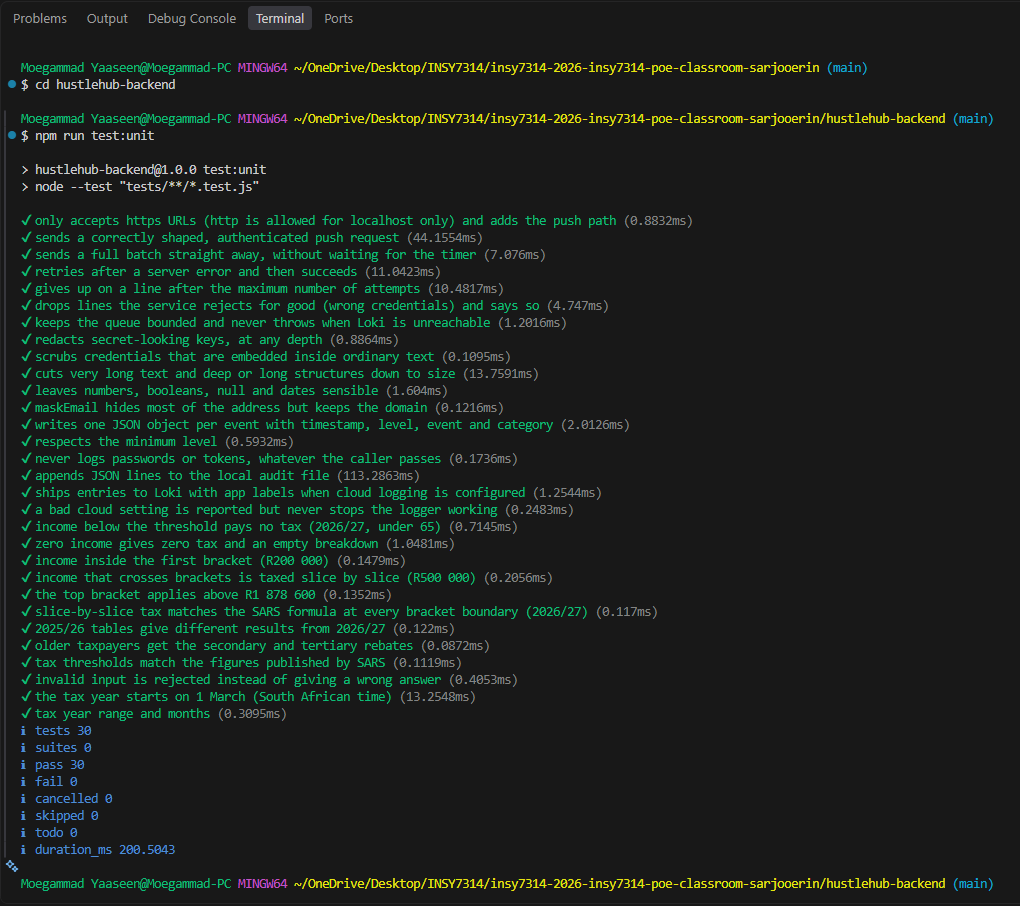
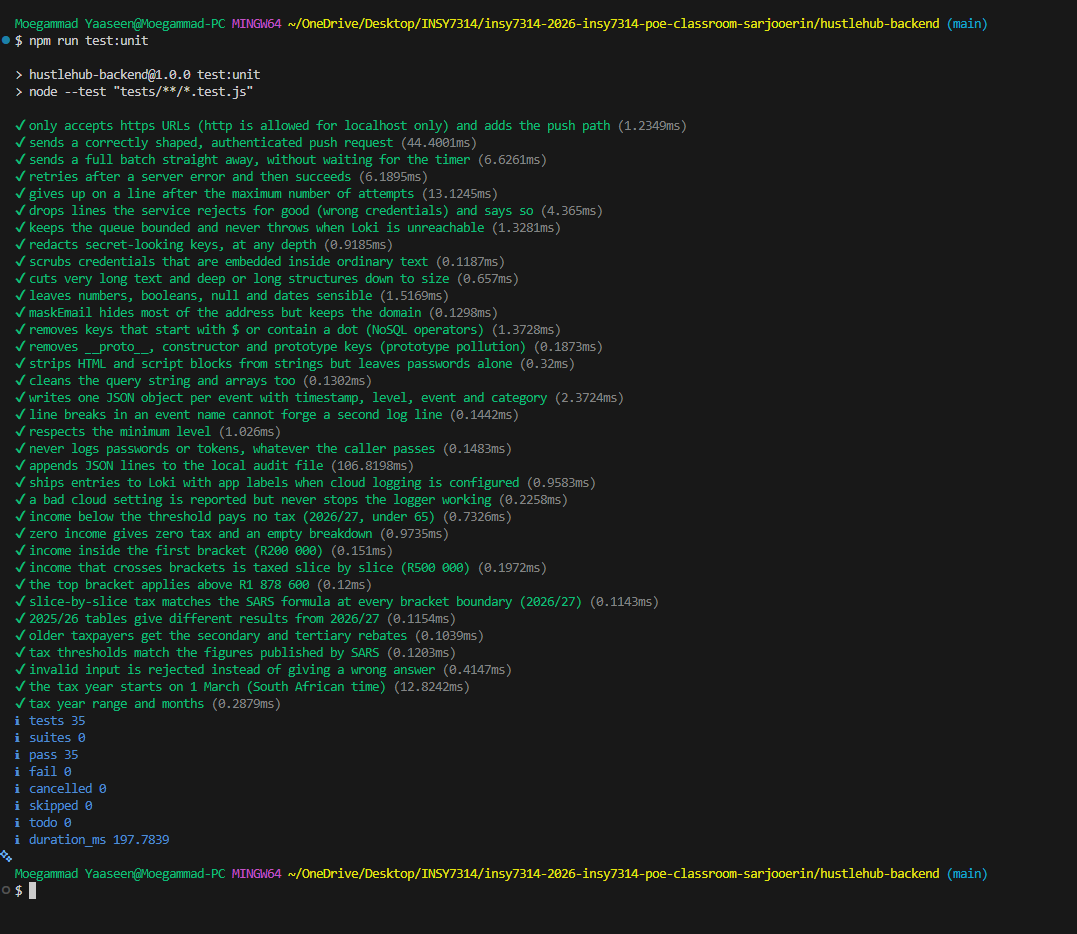
Updated Read Me and Evidence photos

Changed region(s): [[0.0, 0.0, 0.9725, 0.989], [0.5471, 0.3091, 0.5775, 0.34]]

diff --git a/README.md b/README.md
@@ -13,7 +13,7 @@ ST10434391 - Nkosana Mavunhla
 
 **Demonstration video:** PASTE_PART_3_VIDEO_LINK_HERE
 
-**Repository used for the pipeline and static analysis:** PASTE_REPOSITORY_OR_FORK_LINK_HERE (if a fork was used because SonarQube could not connect to the Classroom50 repository, the fork contains every commit of this project)
+**Repository:** https://github.com/EMGPRS/insy7314-2026-insy7314-poe-classroom-sarjooerin (the pipeline runs and the SonarQube analysis are on this repository's `main` branch)
 
 ---
 
@@ -29,7 +29,7 @@ ST10434391 - Nkosana Mavunhla
 | Our own security features (marked **OWN FEATURE**) | [6.2 Our own security features](#62-our-own-security-features-part-3) | `utils/accountLockout.js`, `controllers/authController.js`, `InactivityGuard.jsx` |
 | Security review | [7. Security Review](#7-security-review) | - |
 | Testing evidence | [12. Testing](#12-testing) and [16. Screenshots and Evidence](#16-screenshots-and-evidence) | `hustlehub-backend/tests`, `postman`, `e2e` |
-| References and attribution | [17. Attribution and Use of AI Assistance](#17-attribution-and-use-of-ai-assistance), [18. Reference List](#18-reference-list) | - |
+| Sources and references | [17. Sources and Open-Source Packages](#17-sources-and-open-source-packages), [18. Reference List](#18-reference-list) | - |
 
 ### Team contributions in Part 3
 
@@ -57,7 +57,7 @@ The platform handles credentials, bookings and income data, so security is a des
 | **Freelancer** | Create, edit and delete their own gigs, see booking requests they received, accept or reject them, mark accepted work completed, and see income, estimated tax and take-home pay on a dashboard. |
 | **Admin** | See every user, booking and transaction, and remove any gig for moderation. Admins cannot book gigs or create gigs. |
 
-Admins cannot register through the app. The first admin is created with `npm run seed:admin`.
+Admins cannot register through the app. The first admin is created with `npm run seed:admin` (or `node scripts/seedAdmin.js` inside Docker).
 
 ### How the project grew
 
@@ -465,7 +465,10 @@ Example LogQL queries used for the evidence screenshots:
 sum by (event) (count_over_time({app="hustlehub"} | json [1h]))
 {app="hustlehub", category=~"booking|transaction"}
 {app="hustlehub", level="error"}
+sum by (event) (count_over_time({app="hustlehub"} | json | event!~"http.request|system.*" [1h]))
 ```
+
+The last query is the one in the event-counts screenshot. It leaves out `http.request` and the `system.*` start-up events so that every row fits on the screen.
 
 Evidence screenshots of the dashboard and of these queries are in section 16.
 
@@ -549,6 +552,7 @@ These also go beyond the brief and are marked as our own features:
 
 - **Secret and vulnerability scanning in the pipeline.** Trivy scans the repository for committed secrets, vulnerable dependencies and Dockerfile misconfigurations, and scans both built Docker images, and `npm audit` runs on every package file. Any high or critical finding fails the build. Dependabot opens pull requests for new versions of dependencies, GitHub Actions and Docker base images (`.github/dependabot.yml`).
 - **No secrets in the repository or the images.** `docker-compose.yml` has no secret values: it reads them from `.env` with `${NAME:?message}`, so Compose refuses to start if one is missing. The pipeline creates fresh random secrets for every run. Containers run as an unprivileged user.
+- **Hardened container images.** The API image installs its dependencies, then **removes npm** so the vulnerable packages that npm bundles are not shipped (Trivy reported them against the image), and the application files are owned by root so the running `node` user cannot change them. The web image is built on the current `nginx-unprivileged` release on Alpine, with security upgrades applied. Both images pass the Trivy scan in the pipeline.
 - **Secret-safe logging.** Automatic redaction of secrets and masked email addresses in every log line (section 5.2).
 - **Request tracing.** A request id on every response and log line.
 
@@ -594,7 +598,7 @@ Section 15 lists what is still not covered (for example, a payment gateway, refr
 | Authentication | **JWT bearer tokens** | **Server-side sessions** store a session record for every login and must look it up on every request. That needs a shared session store once there is more than one server, and cookie sessions need extra CSRF protection. JWTs are checked with the secret alone, work the same for the React app and Postman, and scale without shared state. The cost is that a token cannot normally be cancelled before it expires, so we keep it short (1 hour), reload the user on every request (deleted accounts and changed roles take effect straight away) and added a **token version** that a logout raises, which cancels every older token (section 6.2). |
 | Password hashing | **bcrypt, 12 rounds** | **SHA-256 or MD5** are fast, which helps attackers. **argon2id** is also excellent, but needs a native build that often fails on student Windows machines. bcrypt is slow on purpose, salts every password, and its cost can be raised over time. We use `bcryptjs` (pure JavaScript, no native build). |
 | Token storage in the browser | **sessionStorage** | **localStorage** keeps the token after the browser closes. **httpOnly cookies** cannot be read by scripts, but they are sent automatically, which brings CSRF risk, and they behave awkwardly across the two local servers. With sessionStorage the token disappears when the tab closes, the browser never attaches it automatically (so CSRF does not apply), and a strict CSP plus React's escaping reduce the XSS risk. |
-| Database | **MongoDB Atlas with Mongoose** | A relational database would also work. MongoDB is the "M" in MERN, stores gigs naturally as documents, and Mongoose schemas give a second layer of validation. |
+| Database | **MongoDB with Mongoose** (Atlas for local development, a `mongo:7` container in Docker Compose) | A relational database would also work. MongoDB is the "M" in MERN, stores gigs naturally as documents, and Mongoose schemas give a second layer of validation. |
 | Validation | **express-validator** | **Joi or Zod** are good schema libraries, but express-validator is built for Express, and does validation and sanitising in one chain per field. |
 | NoSQL injection | **Remove `$` keys, require strings, Mongoose `sanitizeFilter`** | Relying on only one layer. Three independent layers mean one mistake does not become a breach. |
 | Rate limit storage | **In memory** | **Redis** is needed when several servers share limits. This project runs one API container, so in-memory is simpler and has no extra service to run. Lockout counters, which must survive a restart, are stored in MongoDB instead. |
@@ -611,6 +615,8 @@ Section 15 lists what is still not covered (for example, a payment gateway, refr
 | Web container | **nginx serving a build, as an unprivileged user** | Running the Vite preview server in production is not intended. nginx is small, fast, can be run without root and sets the same security headers. |
 | Browser tests | **Playwright** | It drives a real browser, waits for the page automatically, and runs the same way locally and in the pipeline. |
 | Static analysis | **ESLint with security rules plus SonarQube** | ESLint gives fast feedback on every file in seconds and runs locally. SonarQube adds quality gates, coverage and history. Together they catch more than either alone. |
+| SonarQube hosting | **SonarQube Cloud (hosted)** | Running our own SonarQube server needs a machine that is always on and kept patched. The hosted service needs only a token and works straight from GitHub Actions. |
+| Container images | **`node:22-alpine` with npm removed after install, and the current `nginx-unprivileged`** | A full `node` image or a build that keeps npm ships far more packages than the app needs, and Trivy reported vulnerabilities inside npm itself. Small, current images with fewer packages leave less to attack and keep the image scan clean. |
 
 ---
 
@@ -812,8 +818,8 @@ cp .env.docker.example .env
 # 2. Build the images and start everything, waiting until all three are healthy
 docker compose up --build -d --wait
 
-# 3. Create the admin account
-docker compose run --rm api npm run seed:admin
+# 3. Create the admin account (the API image has no npm, so the script is run with node)
+docker compose run --rm api node scripts/seedAdmin.js
 
 # 4. Open https://localhost:8443  (accept the self-signed certificate warning)
 docker compose ps          # shows all three containers as healthy
@@ -874,7 +880,7 @@ Every layer of the application has automated tests, and all of them run in the p
 
 | Layer | Tool | What it covers | Latest result |
 |---|---|---|---|
-| Backend unit tests | Node's built-in test runner (`node:test`) | Tax engine (12), log redaction (5), Loki sender (7), structured logger (6) | **30 tests, 0 failed**. Together with the Newman API tests below, the backend has about 96% line coverage |
+| Backend unit tests | Node's built-in test runner (`node:test`) | Tax engine (12), log redaction (5), Loki sender (7), structured logger (7), input sanitiser (4) | **35 tests, 0 failed**. Together with the Newman API tests below, the backend has about 96% line coverage |
 | Backend integration tests | Postman collection run by Newman | Every endpoint, roles, ownership, validation, injection, tokens, rate limits, lockout, sessions, headers, CORS | **165 requests, 416 assertions, 0 failed** |
 | Frontend unit and integration tests | Vitest and Testing Library | Pages, forms, routing by role, API client, charts, income page, sessions, inactivity sign-out | **85 tests in 15 files, 0 failed** (about 81% line coverage across all source files) |
 | End-to-end browser tests | Playwright (Chromium) against the Docker stack | Register, log in, create a gig, book, accept, complete, income and tax page, role access, logout revocation, account lockout, admin | **9 tests, 0 failed** |
@@ -927,7 +933,7 @@ npm run lint
 
 ```bash
 docker compose up --build -d --wait
-docker compose run --rm api npm run seed:admin
+docker compose run --rm api node scripts/seedAdmin.js
 cd e2e
 npm install
 npx playwright install chromium
@@ -1005,19 +1011,32 @@ The first run found issues, and each one was reviewed by hand instead of being s
 | **3 errors in the web app** (React Hooks rules) | The inactivity timer called `Date.now()` while rendering, which was moved into an effect, and a data hook that resets its loading flag is documented as the standard fetch-on-change pattern. An unused variable rule was adjusted for JSX component names. |
 | **Dependency advisories (`npm audit`)** | **`body-parser` (high, denial of service via a compressed request body) and `qs` (moderate) in the API's dependencies, and `undici` (high, development-only, used by the test environment) in the web app.** The Express team published the same `body-parser` fix (Express.js 2026). All three were updated with `npm audit fix`, and both applications now report **0 vulnerabilities**. The old request logger package `morgan` was also removed because it was replaced by our structured request logger. |
 
-**Layer 2 - SonarQube.** The `sonarqube` job analyses the API, the web app and the browser tests with the settings in `sonar-project.properties`, uses the backend and frontend coverage reports, and **fails the pipeline if the quality gate fails** (SonarSource n.d.). The result is in section 16:
+**Layer 2 - SonarQube.** We use **SonarQube Cloud** (the hosted service) with its default **"Sonar way"** quality gate. The `sonarqube` job analyses the API, the web app and the browser tests with the settings in `sonar-project.properties`, uses the backend and frontend coverage reports, and **fails the pipeline if the quality gate fails** (SonarSource n.d.). The result is in section 16:
 
-| Measure | Result |
+| Measure | Result on the `main` branch |
 |---|---|
-| Quality gate | PASTE_RESULT_FROM_SONARQUBE (Passed) |
-| Security (vulnerabilities) | PASTE_RESULT_FROM_SONARQUBE |
-| Reliability (bugs) | PASTE_RESULT_FROM_SONARQUBE |
-| Maintainability (code smells) | PASTE_RESULT_FROM_SONARQUBE |
-| Security hotspots reviewed | PASTE_RESULT_FROM_SONARQUBE |
-| Coverage | PASTE_RESULT_FROM_SONARQUBE |
-| Duplications | PASTE_RESULT_FROM_SONARQUBE |
+| Quality gate | **Passed** (all conditions passed) |
+| Security (vulnerabilities) | **0 open issues, rating A** |
+| Reliability (bugs) | **0 open issues, rating A** |
+| Maintainability (code smells) | **0 open issues, rating A** |
+| Security hotspots reviewed | **0** hotspots to review |
+| Coverage | **90.4%** (about 2 500 lines to cover) |
+| Duplications | **0.0%** |
+| Dependency risks | 6 findings, rating C (not part of the quality gate, see section 15) |
 
-**Issues SonarQube reported and how they were fixed:** PASTE_ONE_LINE_PER_ISSUE_FIXED (issue, file, fix). If it reported no security issues, say so here.
+**Issues SonarQube reported and how they were fixed.** On its first runs SonarQube treated the whole project as new code and the quality gate failed. Every finding was fixed in the code, and the analysis was run again until the gate passed:
+
+| Finding | Where | Fix |
+|---|---|---|
+| NoSQL injection through query-string values | `controllers/gigController.js` | Query values are converted with `String()` and `Number()` before they reach MongoDB, the search text is regex-escaped, and the sort option is looked up in a fixed list with `Object.hasOwn`. |
+| Prototype pollution | `middleware/sanitizeMiddleware.js` | The sanitiser builds a clean copy with `Object.fromEntries`, drops unsafe keys, and replaces `req.body` and `req.query` with that copy. |
+| File ownership set with `COPY --chown` | `hustlehub-backend/Dockerfile` | Removed. The application files stay owned by root, and only `certs/` and `logs/` belong to the `node` user. |
+| Log injection | `utils/structuredLogger.js` | Line breaks are removed from the text written to the console, so a user-supplied value cannot forge extra log lines. |
+| Regular expressions that could backtrack badly | `hustlehub-frontend/src/utils/validators.js`, `hustlehub-backend/utils/redact.js` | The email and URL-credential patterns were rewritten so they cannot backtrack. |
+| `parseInt` without a radix | `hustlehub-backend/config/config.js` | Now `Number.parseInt(value, 10)`. |
+| `PATH` lookup when starting `npx` | `hustlehub-backend/scripts/run-newman.js` | Reviewed by hand: this is a development-only test runner that is not part of the deployed app. It is marked `NOSONAR` with the reason written next to it. |
+
+The result is **0 open issues and 0 security hotspots** on `main` (section 16.6).
 
 ---
 
@@ -1048,7 +1067,7 @@ Inside `hustlehub-backend/`:
 - `routes/` - one file per resource
 - `middleware/` - `authMiddleware.js`, `validationMiddleware.js`, `sanitizeMiddleware.js`, `rateLimiters.js`, `securityHeaders.js`, `errorMiddleware.js`, `requestLogger.js`
 - `utils/` - `tax.js`, `accountLockout.js`, `logger.js`, `structuredLogger.js`, `lokiTransport.js`, `redact.js`, `wait.js`, `pagination.js`, `escapeRegex.js`, `money.js`
-- `tests/` - unit tests (`tax`, `redact`, `lokiTransport`, `structuredLogger`)
+- `tests/` - unit tests (`tax`, `redact`, `lokiTransport`, `structuredLogger`, `sanitize`)
 - `scripts/` - `seedAdmin.js`, `run-newman.js`, `migrateBookingStatuses.js`
 - `postman/` - the collection and environment files
 - `eslint.config.js` - static analysis rules
@@ -1078,6 +1097,8 @@ Inside `hustlehub-frontend/`:
 - **Rate limits and lockout counters:** lockout counters are stored in MongoDB and survive restarts, but the per-address rate limits are in memory, which suits one API container. Several containers would need Redis.
 - **Self-signed certificates** are used locally and in Docker, so browsers show a warning. A public deployment would use a trusted certificate, for example from Let's Encrypt.
 - **Money** is stored as rand with 2 decimals. Integer cents would be more robust in production.
+- **SonarQube dependency risks.** SonarQube's Dependency risks view lists 6 findings (rating C) in third-party packages. This view is not part of the quality gate, and the pipeline's own dependency checks (`npm audit` and Trivy, which fail on high and critical findings) pass. Dependabot opens pull requests for package updates.
+- **Pipeline records expire.** In our GitHub organisation, workflow logs and downloadable artifacts are kept for one day only, so the screenshots in section 16 are the permanent record of the pipeline runs.
 - **Deployment:** the project is delivered as containers and is not hosted on a public server, which the brief makes optional.
 
 ---
@@ -1118,13 +1139,15 @@ Every feature in this README has evidence. Screenshots of the application were t
 | *The message shown when the booking rate limit is reached* | *Response headers including the Content Security Policy* |
 | ![Account locked after repeated wrong passwords (OWN FEATURE 1)](docs/screenshots/17-account-lockout.png) | ![Inactivity warning dialog (OWN FEATURE 3)](docs/screenshots/18-inactivity-warning.png) |
 | *OWN FEATURE 1: the account lockout message* | *OWN FEATURE 3: the inactivity warning with its countdown* |
+| ![Login page after being signed out for inactivity](docs/screenshots/18b-inactivity-signed-out.png) | ![The message shown when the per-address login limit is reached](docs/screenshots/login-rate-limit.png) |
+| *OWN FEATURE 3: the login page explains why the person was signed out* | *The per-address login limit (10 failed logins in 15 minutes), a second layer next to the account lockout* |
 
 ### 16.4 Test evidence
 
 | | |
 |---|---|
 | ![Backend unit tests](docs/evidence/unit-tests-terminal.png) | ![Newman results](docs/evidence/newman-terminal.png) |
-| *Backend unit tests: 30 passed, with coverage* | *Newman: 165 requests and 416 assertions, none failed* |
+| *Backend unit tests: 35 passed* | *Newman: 165 requests and 416 assertions, none failed* |
 | ![Vitest results](docs/evidence/vitest-terminal.png) | ![Playwright results](docs/evidence/playwright-results.png) |
 | *Vitest: 85 tests in 15 files passed* | *Playwright browser tests against the Docker stack: 9 passed* |
 
@@ -1136,7 +1159,7 @@ The full Newman HTML report is in [`docs/evidence/newman-report.html`](docs/evid
 
 ![A successful pipeline run with every job green](docs/evidence/pipeline-run-success.png)
 
-*A successful run of the CI workflow: every job and the final pipeline gate are green.*
+*A successful run of the CI workflow: every job and the final pipeline gate are green. GitHub keeps logs and artifacts for one day in our organisation, so this screenshot is the permanent record.*
 
 ![The pipeline failing on a deliberately broken test](docs/evidence/pipeline-failure-demo.png)
 
@@ -1170,14 +1193,16 @@ The full Newman HTML report is in [`docs/evidence/newman-report.html`](docs/evid
 
 | | |
 |---|---|
-| ![Login events in Grafana Explore](docs/evidence/grafana-login-events.png) | ![Booking and transaction events in Grafana Explore](docs/evidence/grafana-booking-transaction-events.png) |
-| *Login successes and failures (`auth.login.*`)* | *Booking and transaction events* |
-| ![Error and security events in Grafana Explore](docs/evidence/grafana-security-errors.png) | ![Event counts by type](docs/evidence/grafana-event-counts.png) |
-| *Security events and errors, including lockouts and rate limits* | *Event counts by type* |
+| ![Login outcomes panel on the Grafana dashboard](docs/evidence/grafana-login-events.png) | ![Bookings and transactions panel on the Grafana dashboard](docs/evidence/grafana-booking-transaction-events.png) |
+| *Login outcomes over time: successes, failures and blocked (locked) logins* | *Bookings and transactions: created, accepted, completed and payments recorded as completed* |
+| ![Security events panel on the Grafana dashboard](docs/evidence/grafana-security-errors.png) | ![Event counts by type in Grafana Explore](docs/evidence/grafana-event-counts.png) |
+| *Security events over time: rate-limit hits and an account lockout* | *Event counts by type in Grafana Explore (`http.request` and `system.*` events left out so every row fits)* |
+
+The dashboard's "Errors" panel is empty and the "Server errors (5xx)" number is 0, because no server errors happened during the demonstration.
 
 ---
 
-## 17. Attribution and Use of AI Assistance
+## 17. Sources and Open-Source Packages
 
 **Our own work.** The design and the code of HustleHub+ are the team's own work, built on the libraries and sources below. The tax engine, logging system, Loki sender, account lockout, revocable sessions, inactivity sign-out, income dashboard, Docker files, pipeline and tests are original to this project.
 
@@ -1195,8 +1220,6 @@ The full Newman HTML report is in [`docs/evidence/newman-report.html`](docs/evid
 | Playwright documentation (Playwright n.d.) | The structure of the browser tests |
 
 **Open-source packages (used under their licences):** Express, Mongoose, jsonwebtoken, bcryptjs, helmet, cors, express-rate-limit, express-validator, dotenv, React, React Router, Vite, Vitest, Testing Library, ESLint, eslint-plugin-security, Newman, Playwright, and the Docker images `node`, `mongo` and `nginxinc/nginx-unprivileged`. Their exact versions are in the `package.json` and lock files, and the Trivy and SonarQube tools are used through their official GitHub Actions.
-
-**Use of AI assistance.** Anthropic's Claude was used as a coding and writing assistant during Part 3, for example to draft code, tests, configuration and parts of this document. The team reviewed, ran and tested the results, made the design decisions, set up the accounts and services, and remains responsible for everything submitted. All behaviour described in this README was checked by running the application and its tests.
 
 ---
 
